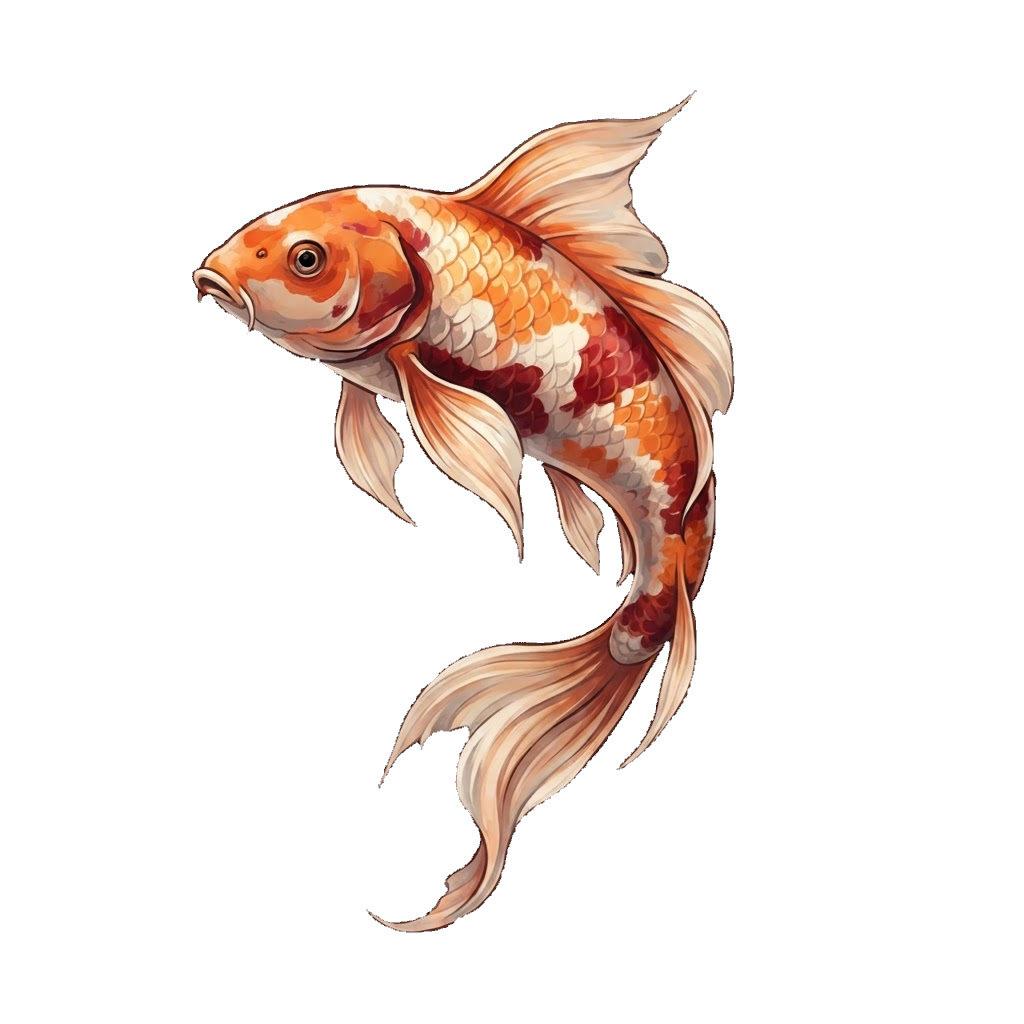
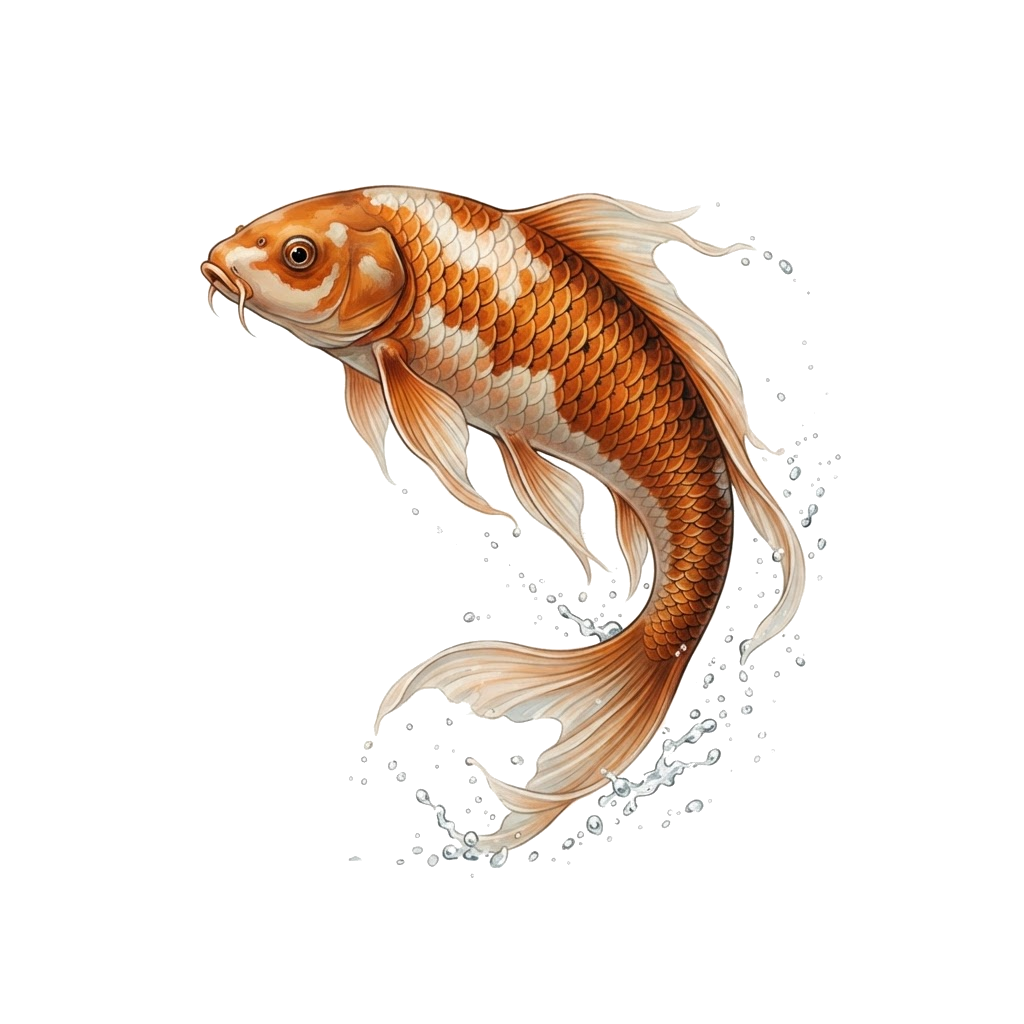
feat: update koi size and remove koi options page and images

Changed region(s): [[0.1875, 0.0938, 0.8125, 0.9062], [0.75, 0.25, 0.7812, 0.2812]]

diff --git a/components/cur8/koi-leap.tsx b/components/cur8/koi-leap.tsx
@@ -42,7 +42,7 @@ export default function KoiLeap({ active, origin, onComplete }: KoiLeapProps) {
 
   if (!active || !origin || vp.w === 0) return null
 
-  const koiSize = vp.w < 640 ? 132 : 184
+  const koiSize = vp.w < 640 ? 92 : 129
   // Launch from the bottom (the pond surface), roughly under the chosen tile.
   const startX = Math.min(Math.max(origin.x, koiSize / 2), vp.w - koiSize / 2)
   const startY = vp.h + koiSize * 0.5